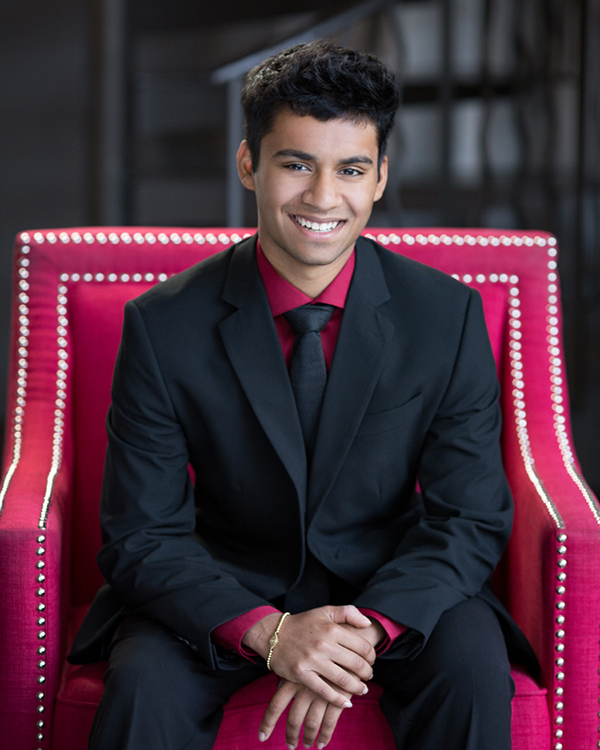
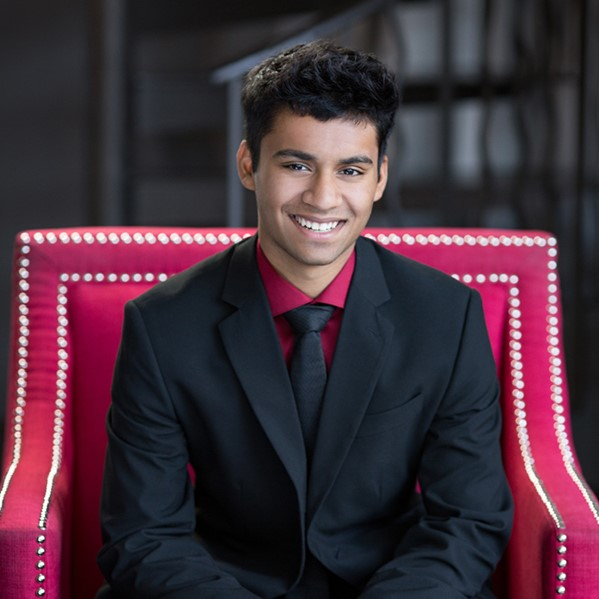
pain
I changed a lot of stuff but every picture is clickable and I edited some of the photos so the aspect ratio is square so that it can all be a circle also i renamed some of the files

diff --git a/members.html b/members.html
@@ -20,7 +20,7 @@
 <body id ="body">
     <header>
         <a href="index.html" id="logo">
-          <img class= "theImage" src="img/logo.png">
+          <img class= "profileImage" src="img/logo.png">
         </a>
         <nav class="headings">
             <li><a href="index.html" >HOME</a></li>
@@ -35,7 +35,7 @@
             <h1>Leaders</h1>
             <li>
                 <div class ="otherWay">
-                <a class="name" href="https://www.linkedin.com/in/amro-d-047b771a7">
+                <a class="name" href="">
                     <img class= "profileImage" src="img/default.png"><p>Amro Dadah</p>
                 </a>
                     <p>Project Manager</p>
@@ -52,6 +52,7 @@
             <li>
                     <img class= "profileImage" src="img/default.png"><p>Professor Doug</p><p>Advisor</p>
             </li>
+            
                 </div>
             </ul>
         </section>
@@ -59,37 +60,38 @@
 
     <br>
     <br><br><br><br><br><br><br><br><br><br><br><br><br><br><br><br><br><br><br><br><br><br><br><br>
-    <div>
+    
          <h2>Leaders</h2>
          <div class ="teamNames">
-            <div> <img class= "theImage" src="img/default.png"><br><strong>Amro Dadah</strong><br><br>Project Manager<br><br>www.linkedin.com/in/amro-d-047b771a7<br><br></div>
-            <div> <img class= "theImage" src="img/default.png"><br><strong>Aref Zeitoun</strong><br><br>Project Manager<br><br>https://www.linkedin.com/in/aref-zeitoun/<br><br></div>
-            <div> <img class= "theImage" src="img/default.png"><br><strong>Karam Jazmati</strong><br><br>Leader<br><br>https://www.linkedin.com/in/karam-jazmati-6a443b173/<br><br></div>
-            <div> <img class= "theImage" src="img/default.png"><br><strong>Edward Sana</strong><br><br>Leader Assitant<br><br>https://www.linkedin.com/in/edward-s-7882289a/<br><br></div>
-            <div> <img class= "theImage" src="img/default.png"><br><strong>Professor Doug</strong><br><br>Advisor</div>
+            <div> <a class = "name" href="https://www.linkedin.com/in/amro-d-047b771a7"><img class= "profileImage" src="img/default.png"><br><br><strong>Amro Dadah</strong><br></a></a><br>Project Manager</div>
+            <div> <a class = "name" href="https://www.linkedin.com/in/aref-zeitoun/"><img class= "profileImage" src="img/default.png"><br><br><strong>Aref Zeitoun</strong><br></a><br>Project Manager</div>
+            <div> <a class = "name" href="https://www.linkedin.com/in/karam-jazmati-6a443b173/"><img class= "profileImage" src="img/KaramJazmati.jpg"><br><br><strong>Karam Jazmati</strong><br></a><br>Leader<br></div>
+            <div> <a class = "name" href="https://www.linkedin.com/in/edward-s-7882289a/"><img class= "profileImage" src="img/EdwardSana.png"><br><br><strong>Edward Sana</strong><br></a><br>Leader Assitant<br></div>
+            <div> <a class = "name" href="https://engineering.wayne.edu/profile/hg1702"><img class= "profileImage" src="img/default.png"><br><br><strong>Professor Doug</strong></a><br><br>Advisor</div>
         </div>
         <br>
         <br>
         <br>
+        
         <h2>Members</h2>
         <h2>AI Team</h2>
         <div class ="teamNames">
-            <div>    <img class= "theImage" src="\img\Anh%20Phuong%20Trinh.png"><br><strong>Anh Trinh</strong><br><br>Member<br><br>trinhan2@msu.edu<br><br></div>
-            <div>    <img class= "theImage" src="img/default.png"><br><strong>Aref Zeitoun</strong><br><br>Member<br><br>https://www.linkedin.com/in/aref-zeitoun/<br><br></div>
-            <div>    <img class= "theImage" src="\img\Brylee%20Pavlik.jpeg"><br><strong>Brylee Pavlik</strong><br><br>Member<br><br>pavlikbr@msu.edu<br><br></div>
-            <div>    <img class= "theImage" src="\img\GabrielCarlosSoteloJusto.jpg"><br><strong>Gabriel Sotelo</strong><br><br>Member<br><br>https://www.linkedin.com/in/gabriel-sotelo/<br><br></div>
-            <div>    <img class= "theImage" src="\img\Han%20Nguyen.jpeg"><br><strong>Han Nguyen</strong><br><br>Member<br><br>h.bnguyen2001@gmail.com<br><br></div>
-            <div>    <img class= "theImage" src="\img\JackAlanSleeman.jpg"><br><strong>Jack Sleeman</strong><br><br>Member<br><br>https://www.linkedin.com/in/jack-sleeman0/<br><br></div>
-            <div>    <img class= "theImage" src="\img\JacobGraybeal_msu_photo - Jacob A Graybeal.JPG"><br><strong>Jacob Graybeal</strong><br><br>Member<br><br>jacgraybeal20@gmail.com<br><br></div>
-            <div>    <img class= "theImage" src="img/default.png"><br><strong>Jay Ho</strong><br><br>Member</div>
-            <div>    <img class= "theImage" src="\img\Krithi%20Sachithanand.jpeg"><br><strong>Krithi Schithanand</strong><br><br>Member<br><br>Krithi.s100@gmail.com<br><br></div>
-            <div>    <img class= "theImage" src="img/MohammadMohtasimZaman.jpeg"><br><strong>Mohammad Zaman</strong><br><br>Member<br><br>zamanmo1@msu.edu<br><br></div>
-            <div>    <img class= "theImage" src="\img\NeilKhedekar.jpeg"><br><strong>Neil Khedekar</strong><br><br>Member<br><br>https://www.linkedin.com/in/neil-khedekar-66b937199/<br><br></div>
-            <div>    <img class= "theImage" src="\img\RaviGrewal.jpg"><br><strong>Ravi Grewal</strong><br><br>Member<br><br>https://www.linkedin.com/in/ravi-grewal-9ab26a208/<br><br></div>
-            <div>    <img class= "theImage" src="img/default.png"><br><strong>Shash Bhatia</strong><br><br>Member<br><br>https://www.linkedin.com/in/shashwat-bhatia/<br><br></div>
-            <div>    <img class= "theImage" src="img/default.png"><br><strong>Stanley Duru</strong><br><br>Member<br><br>Durustan@msu.edu<br><br></div>
-            <div>    <img class= "theImage" src="\img\Treasure%20Ogundiran.jpeg"><br><strong>Treasure Ogundrian</strong><br><br>Member<br><br>https://www.linkedin.com/in/treasure-ogundiran-852243197<br><br></div>
-            <div>    <img class= "theImage" src="\img\TrinityJohnson.jpg"><br><strong>Trinity Johnson</strong><br><br>Member<br><br>https://www.linkedin.com/in/trinity-johnson-a099aa179/<br><br></div>
+            <div>    <a class = "name" href="http://www.linkedin.com/in/aref-zeitoun"> <img class= "profileImage" src="img/default.png"><br><strong>Aref Zeitoun</strong><br></a><br>Team Leader<br></div>
+            <div>    <a class = "name" href="mailto:trinhan2@msu.edu"><img class= "profileImage" src="\img\AnhPhuongTrinh.png"><br><strong>Anh Trinh</strong><br></a><br>Member<br></div>
+            <div>    <a class = "name" href="mailto:pavlikbr@msu.edu"><img class= "profileImage" src="\img\BryleePavlik.jpeg"><br><strong>Brylee Pavlik</strong><br></a><br>Member<br></div>
+            <div>    <a class = "name" href="https://www.linkedin.com/in/gabriel-sotelo/"><img class= "profileImage" src="\img\GabrielCarlosSoteloJusto.jpg"><br><strong>Gabriel Sotelo</strong><br></a><br>Member<br></div>
+            <div>    <a class = "name" href="mailto:h.bnguyen2001@gmail.com"><img class= "profileImage" src="\img\HanNguyen.jpeg"><br><strong>Han Nguyen</strong><br></a><br>Member<br></div>
+            <div>    <a class = "name" href="http://www.linkedin.com/in/jack-sleeman0"><img class= "profileImage" src="\img\JackAlanSleeman.jpg"><br><strong>Jack Sleeman</strong><br></a><br>Member<br></div>
+            <div>    <a class = "name" href="mailto:jacgraybeal20@gmail.com"><img class= "profileImage" src="\img\JacobGraybeal_msu_photo - Jacob A Graybeal.JPG"><br><strong>Jacob Graybeal</strong><br></a><br>Member<br></div>
+            <div>    <a class = "name" href=""><img class= "profileImage" src="img/default.png"><br><strong>Jay Ho</strong><br></a><br>Member</div>
+            <div>    <a class = "name" href="mailto:Krithi.s100@gmail.com"><img class= "profileImage" src="\img\KrithiSachithanand.jpeg"><br><strong>Krithi Schithanand</strong><br></a><br>Member<br></div>
+            <div>    <a class = "name" href="http://linkedin.com/in/mohammad-zaman-7528b517a"> <img class= "profileImage" src="img/MohammadMohtasimZaman.jpeg"><br><strong>Mohammad Zaman</strong><br></a><br>Member<br></div>
+            <div>    <a class = "name" href="https://www.linkedin.com/in/neil-khedekar-66b937199/"><img class= "profileImage" src="\img\NeilKhedekar.jpeg"><br><strong>Neil Khedekar</strong><br></a><br>Member<br></div>
+            <div>    <a class = "name" href="https://www.linkedin.com/in/ravi-grewal-9ab26a208/"><img class= "profileImage" src="\img\RaviGrewal.jpg"><br><strong>Ravi Grewal</strong><br></a><br>Member<br></div>
+            <div>    <a class = "name" href="https://www.linkedin.com/in/shashwat-bhatia/"><img class= "profileImage" src="img/default.png"><br><strong>Shash Bhatia</strong><br></a><br>Member<br></div>
+            <div>    <a class = "name" href="mailto:Durustan@msu.edu"><img class= "profileImage" src="img/default.png"><br><strong>Stanley Duru</strong><br></a><br>Member<br></div>
+            <div>    <a class = "name" href="https://www.linkedin.com/in/treasure-ogundiran-852243197"><img class= "profileImage" src="\img\TreasureOgundiran.jpeg"><br><strong>Treasure Ogundrian</strong><br></a><br>Member<br></div>
+            <div>    <a class = "name" href="https://www.linkedin.com/in/trinity-johnson-a099aa179/"><img class= "profileImage" src="\img\TrinityJohnson.jpg"><br><strong>Trinity Johnson</strong><br></a><br>Member<br></div>
             <div></div><!--so that it appears on left side-->
             <div></div>
         </div>
@@ -99,37 +101,38 @@
         <h2>Team Security/Website</h2>
         <div class ="teamNames">
            
-                <div><img class= "theImage" src="img/default.png"><br><strong>Amro Dadah</strong><br><br>Team Leader</div>
-                <div><img class= "theImage" src="img/default.png"><br><strong>Chuck Bardel</strong><br><br>Member<br><br>https://www.linkedin.com/in/chuck-bardel<br><br></div>
-                <div><img class= "theImage" src="\img\Myroslawa%20Chrin.jpg"><br><strong>Myroslawa Chrin</strong><br><br>Member<br><br>Myroslawachrin@gmail.com <br><br></div>
-                <div><img class= "theImage" src="\img\Nahiyan.jpg"><br><strong>Nahiyan Chowdhury</strong><br><br>Member<br><br>linkedin.com/in/nahiyan-chowdhury-00963b1a8<br><br></div>
+                <div><a class = "name" href="http://www.linkedin.com/in/amro-d-047b771a7"><img class= "profileImage" src="img/default.png"><br><strong>Amro Dadah</strong><br></a><br>Team Leader</div>
+                <div><a class = "name" href="https://www.linkedin.com/in/chuck-bardel"><img class= "profileImage" src="img/default.png"><br><strong>Chuck Bardel</strong><br></a><br>Member<br></div>
+                <div><a class = "name" href="mailto:Myroslawachrin@gmail.com "><img class= "profileImage" src="\img\MyroslawaChrin.jpg"><br><strong>Myroslawa Chrin</strong><br></a><br>Member<br></div>
+                <div><a class = "name" href="http://linkedin.com/in/nahiyan-chowdhury-00963b1a8"><img class= "profileImage" src="\img\Nahiyan.jpg"><br><strong>Nahiyan Chowdhury</strong><br></a><br>Member<br></div>
             
         </div>
+       
         <br><br>
         <h2>Front-End Web Development</h2>
         <div class ="teamNames">
             
-                <div><img class= "theImage" src="\img\Karam%20Jazmati.jpg"><br><strong>Karam Jazmati</strong><br><br>Team Leader<br><br>https://www.linkedin.com/in/karam-jazmati-6a443b173/<br><br></div>
-                <div><img class= "theImage" src="img/default.png"><br><strong>Ankith Goutham</strong><br><br>Member<br><br>gouthama320@gmail.com<br><br></div>
-                <div><img class= "theImage" src="img/default.png"><br><strong>Arian Qoshi</strong><br><br>Member<br><br>www.linkedin.com/in/qoshi<br><br></div>
-                <div><img class= "theImage" src="\img\KylieLee.jpg"><br><strong>Kylie Lee</strong><br><br>Member<br><br>https://www.linkedin.com/in/kylie-lee-8477091b5/<br><br></div>
-                <div><img class= "theImage" src="img/default.png"><br><strong>Murtaza Ali</strong><br><br>Member<br><br>tazaali49@gmail.com<br></div>
-                <div><img class= "theImage" src="\img\SHUHELAHMED.jpg"><br><strong>Shuhel Ahmed</strong><br><br>Member<br><br>Shuhelahmed100@gmail.com<br><br></div>
-                <div></div>
-                <div></div>
+                <div><a class = "name" href="https://www.linkedin.com/in/karam-jazmati-6a443b173/"><img class= "profileImage" src="\img\KaramJazmati.jpg"><br><strong>Karam Jazmati</strong><br></a><br>Team Leader<br></div>
+                <div><a class = "name" href="mailto:gouthama320@gmail.com"><img class= "profileImage" src="img/default.png"><br><strong>Ankith Goutham</strong><br></a><br>Member<br></div>
+                <div><a class = "name" href="http://www.linkedin.com/in/qoshi"><img class= "profileImage" src="img/default.png"><br><strong>Arian Qoshi</strong><br></a><br>Member<br></div>
+                <div><a class = "name" href="https://www.linkedin.com/in/kylie-lee-8477091b5/"><img class= "profileImage" src="\img\KylieLee.jpg"><br><strong>Kylie Lee</strong><br></a><br>Member<br></div>
+                <div><a class = "name" href="mailto:tazaali49@gmail.com"><img class= "profileImage" src="img/default.png"><br><strong>Murtaza Ali</strong><br></a><br>Member<br></div>
+                <div><a class = "name" href="mailto:Shuhelahmed100@gmail.com"><img class= "profileImage" src="\img\SHUHELAHMED.jpg"><br><strong>Shuhel Ahmed</strong><br></a><br>Member<br></div>
+                
         </div>
         <br>
+        
         <h2><br>Back-End Web Development</h2>
         <div class = "teamNames">
-                <div><img class= "theImage" src="\img\James%20Daniel.jpg"><br><strong>James Daniel</strong><br><br>Team Leader<br><br>https://www.linkedin.com/in/james-daniel-b754a8195/<br><br></div>
-                <div><img class= "theImage" src="\img\EdwardSana.png"><br><strong>Edward Sana</strong><br><br>Leader Assistant<br><br>https://www.linkedin.com/in/edward-s-7882289a/<br><br></div>
+                <div><a class = "name" href="https://www.linkedin.com/in/james-daniel-b754a8195/"><img class= "profileImage" src="\img\JamesDaniel.jpg"><br><strong>James Daniel</strong><br></a><br>Team Leader<br></div>
+                <div><a class = "name" href="https://www.linkedin.com/in/edward-s-7882289a/"><img class= "profileImage" src="\img\EdwardSana.png"><br><strong>Edward Sana</strong><br></a><br>Leader Assistant<br></div>
             
         </div>
         
         <footer>
             <p>contact.us@mackenzie.help</p>
           </footer>
-    </div>
+    
 </body>
 
 </html>

diff --git a/styles/members.css b/styles/members.css
@@ -47,6 +47,7 @@ GALLERY
     float: left;
     list-style: none;
     margin-right: 10px;
+    margin-bottom: 3%;
     text-align: center;
     flex: 1 0 21%;
 }
@@ -59,8 +60,15 @@ GALLERY
 }
 
 .profileImage{
-    width: 15%;
+    
+    border-radius: 50%;
+    
+    width: 200px;
     height: auto;
+    object-fit: cover;
+}
+.profileImage:hover{
+    box-shadow: 0 0 2px 1px rgba(0, 140, 186, 0.5);
 }
 
 
